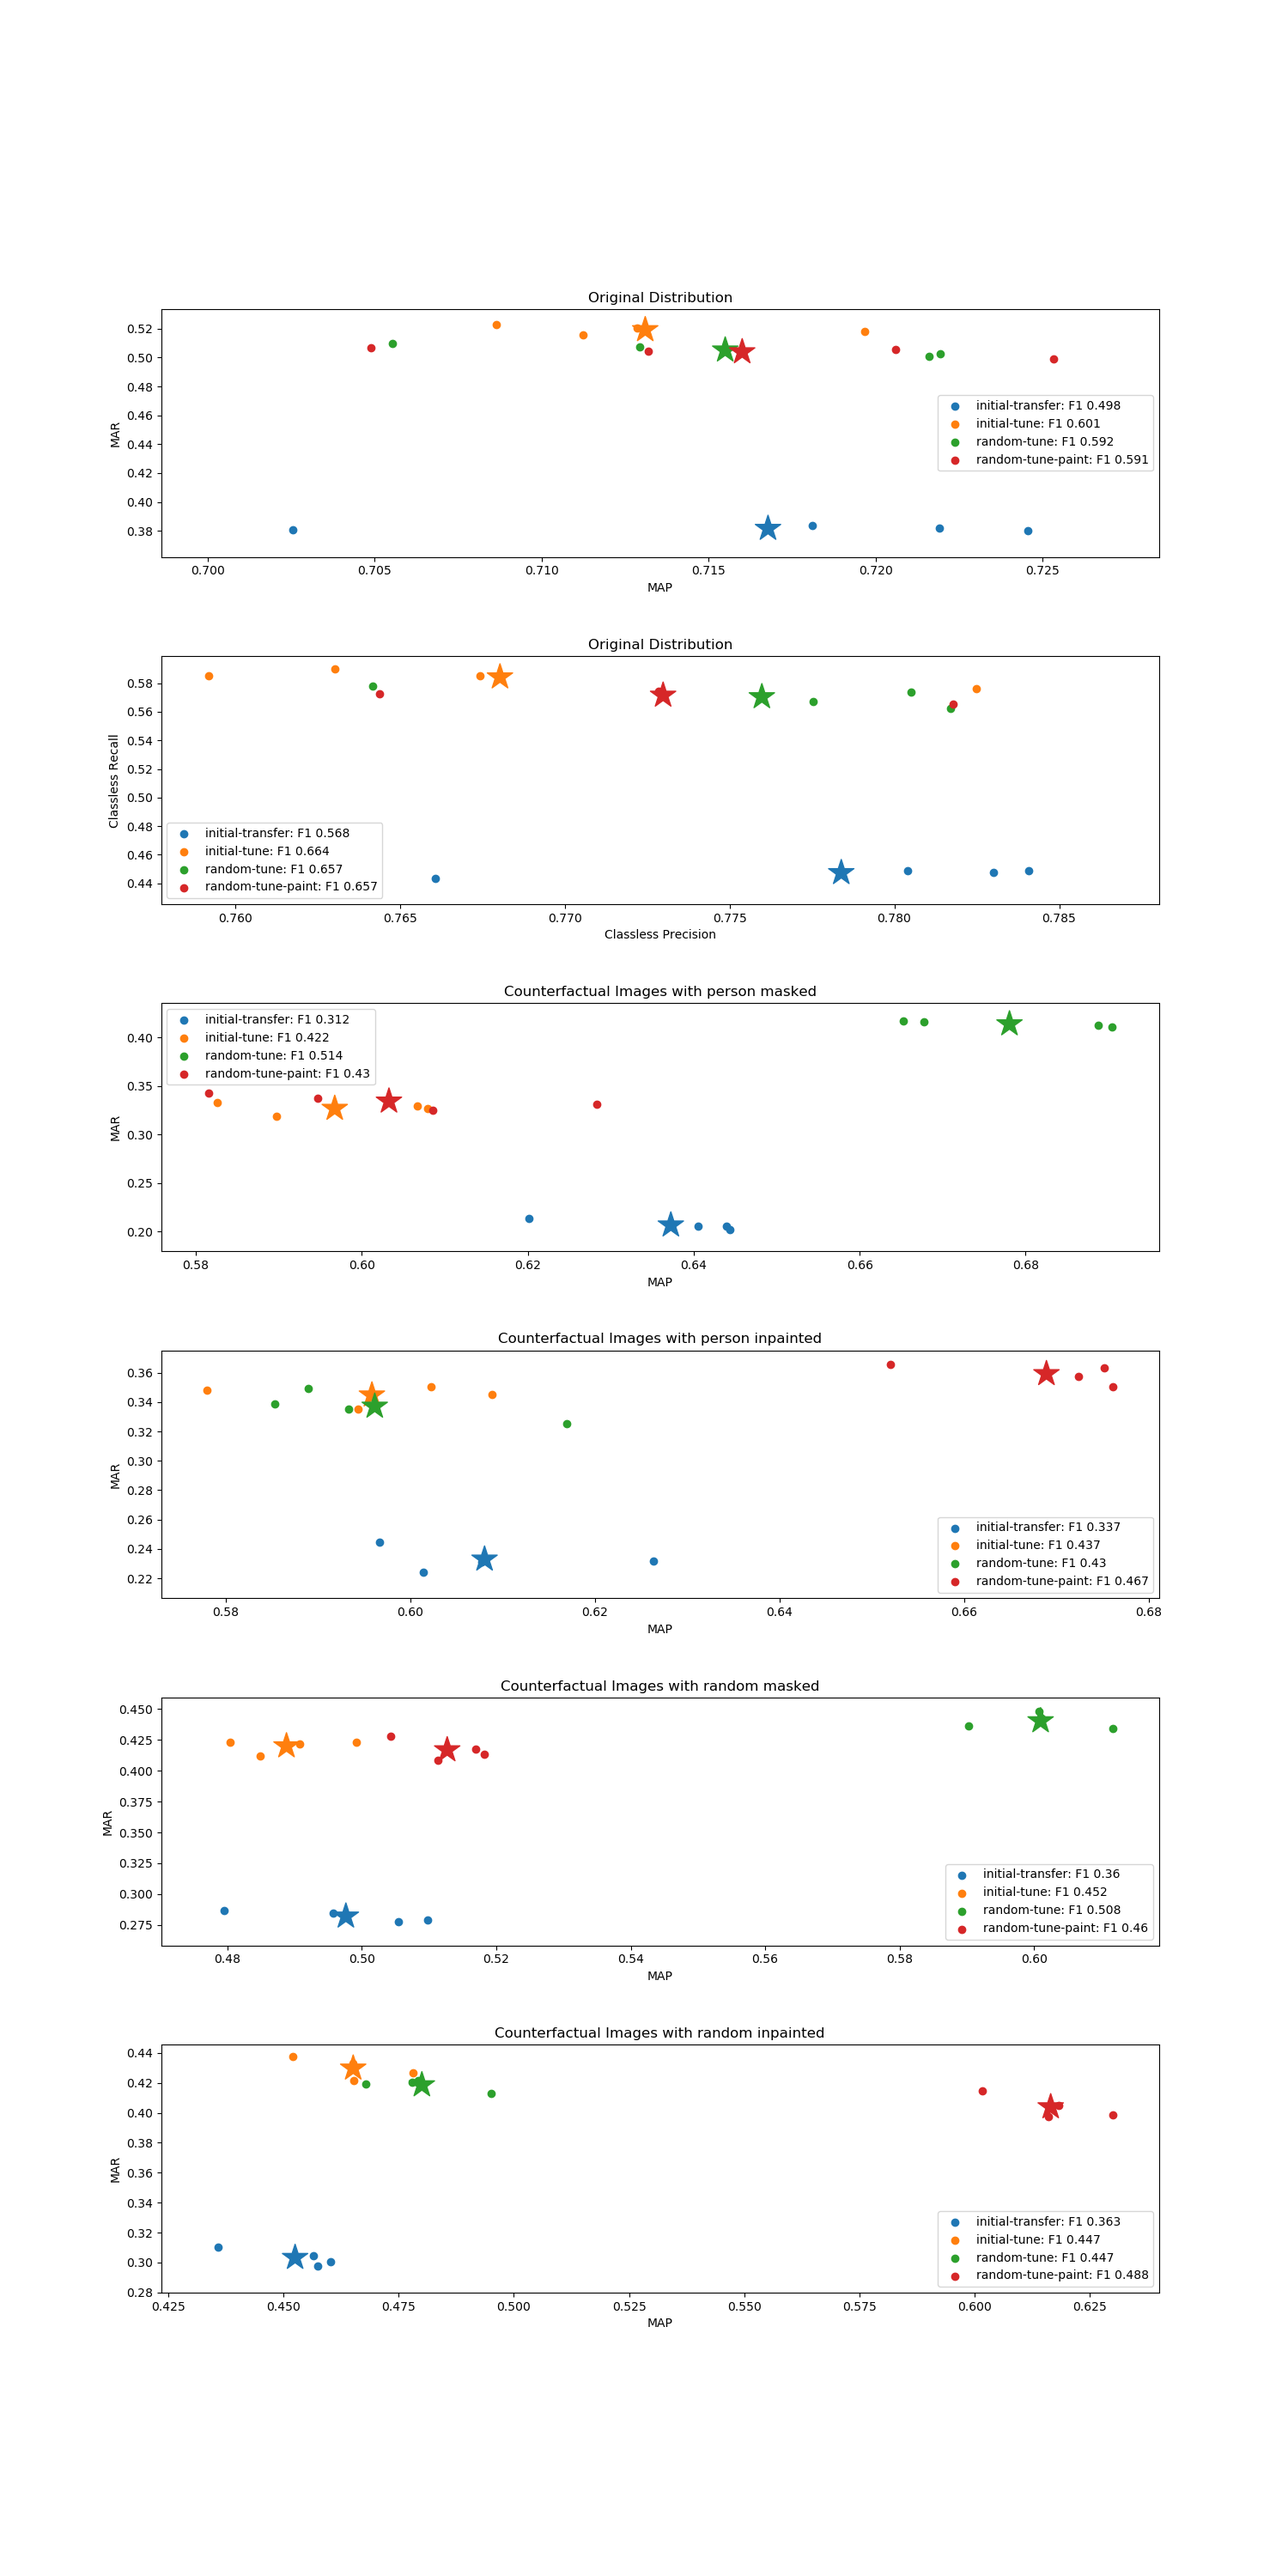
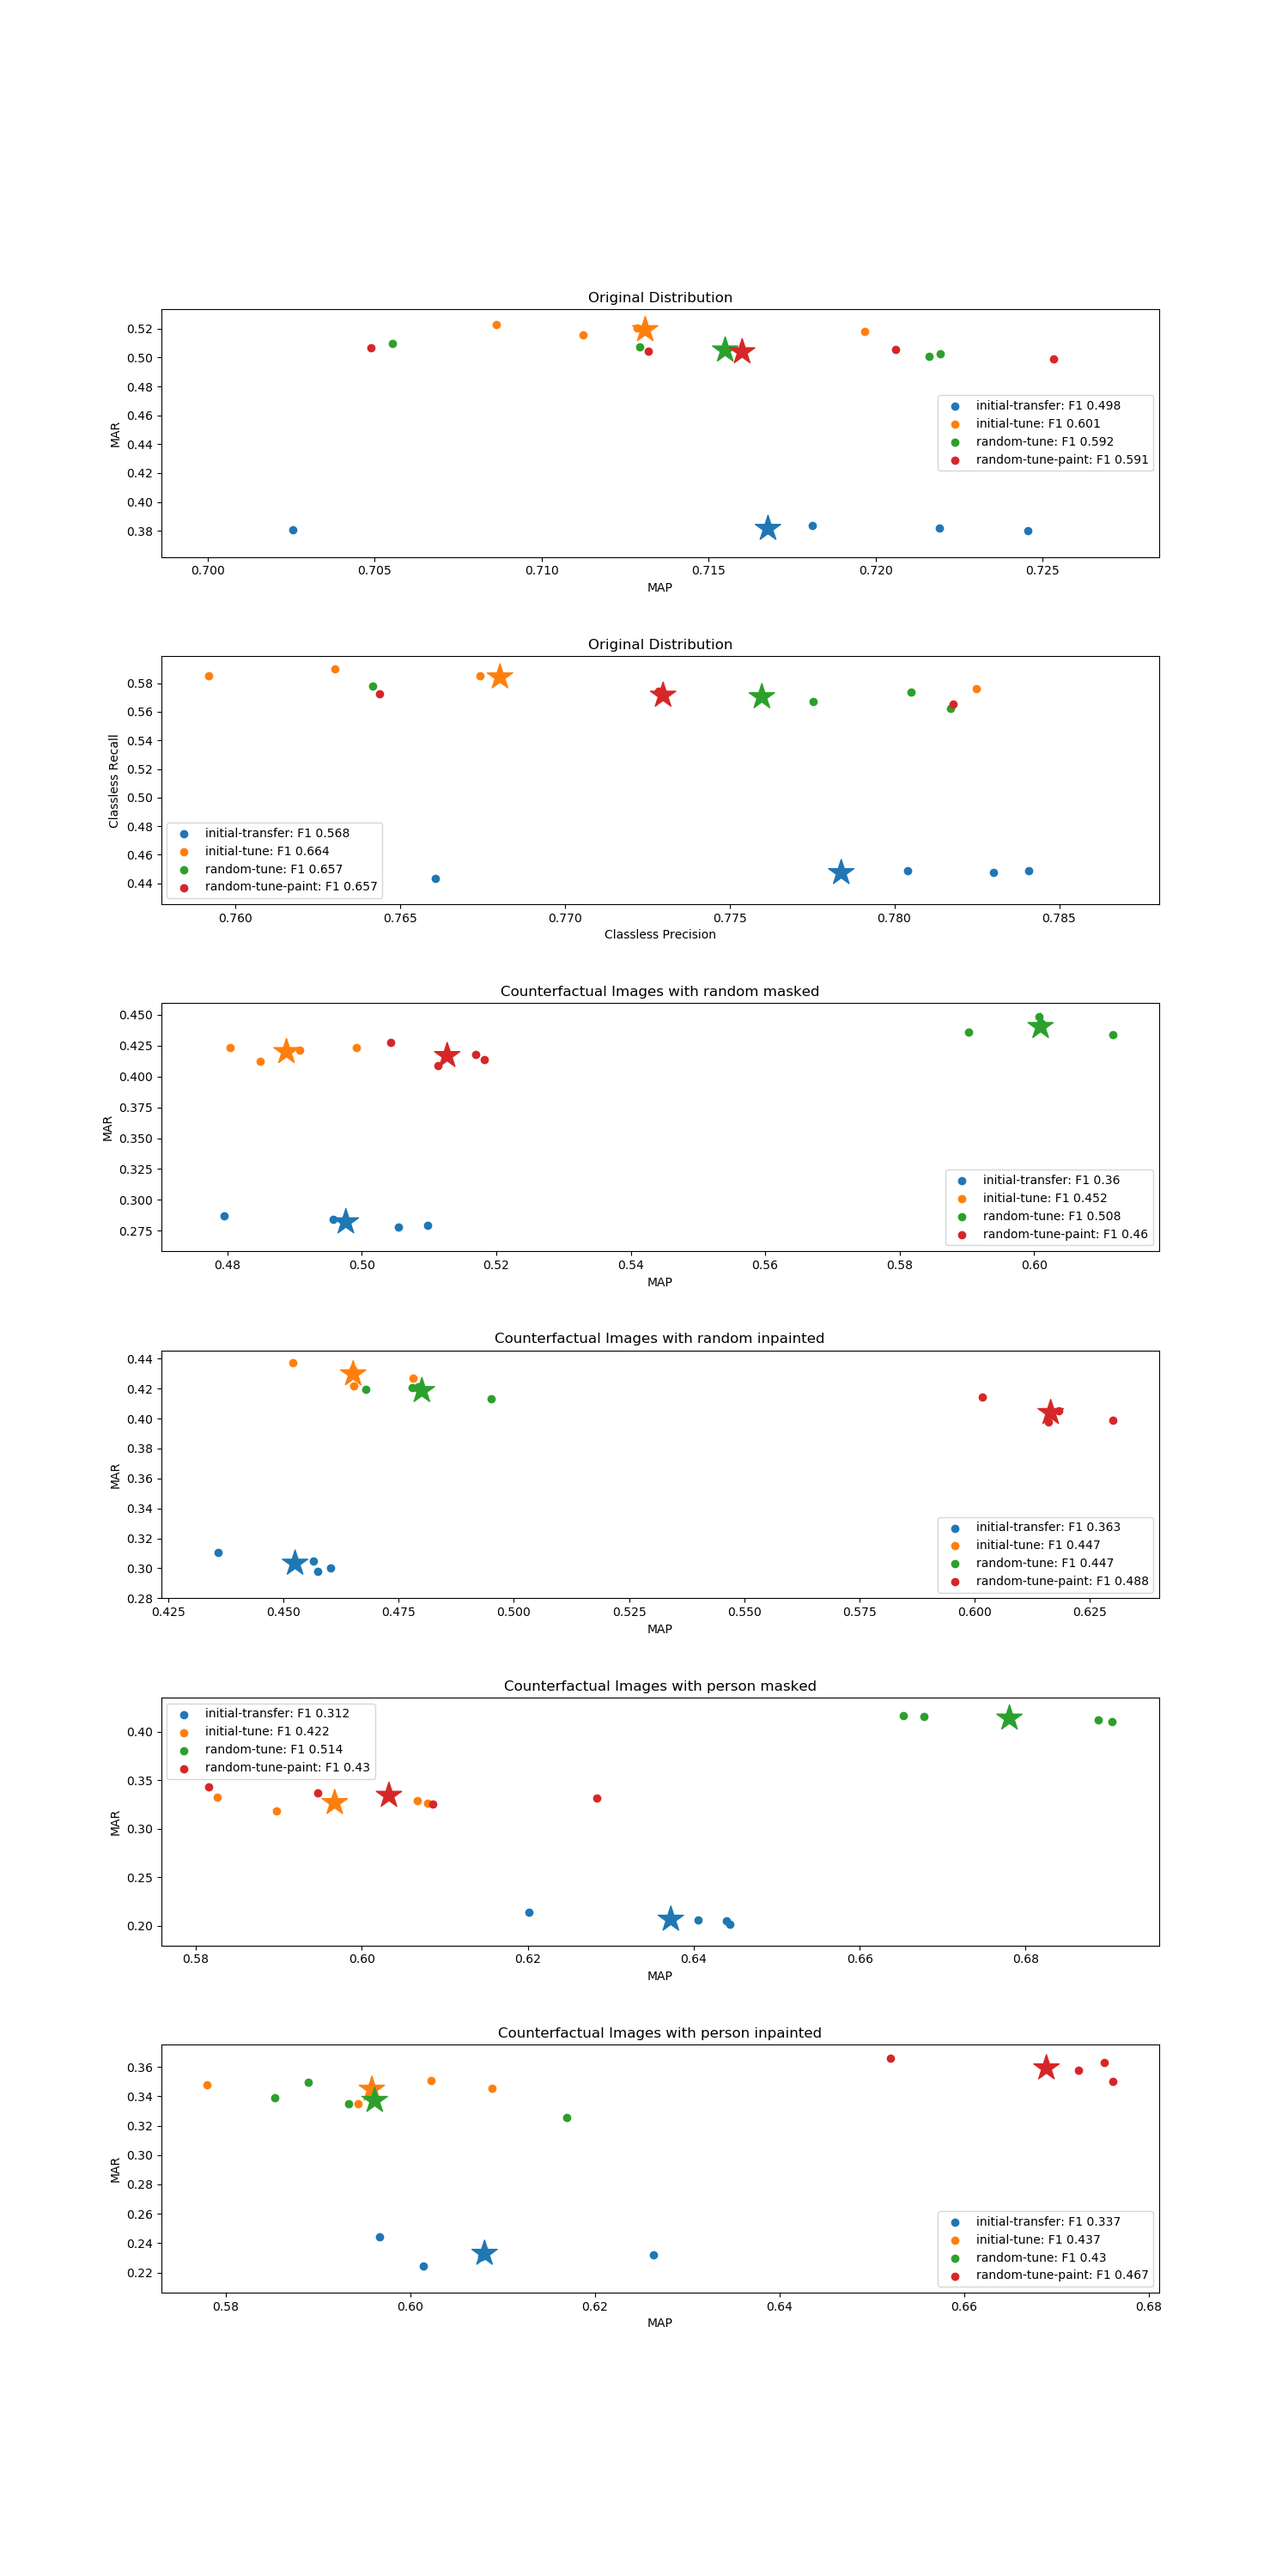
Switched the evaluation code to save activations rather than labels

diff --git a/COCO/Plot.py b/COCO/Plot.py
@@ -38,7 +38,7 @@ if __name__ == '__main__':
             for task in tasks:
                 p = []
                 r = []
-                for file in glob.glob('./Models/{}/*.p'.format(task)):
+                for file in glob.glob('./Models/{}/model_?.p'.format(task)):
                     with open(file, 'rb') as f:
                         data = pickle.load(f)
                         
@@ -82,12 +82,12 @@ if __name__ == '__main__':
         for task in tasks:
             p = []
             r = []
-            for file in glob.glob('./Models/{}/*.p'.format(task)):
+            for file in glob.glob('./Models/{}/model_?.p'.format(task)):
                 with open(file, 'rb') as f:
                     data = pickle.load(f)
                     
                 data = data['{}/val{}-info.p'.format(root, year)]
-                o1, o2 = coco.get_metrics_classless(data[2], data[3])
+                o1, o2 = coco.get_metrics_classless(1.0 * (data[2] > 0.5), data[3])
                 p.append(o1)
                 r.append(o2)
                 
@@ -99,21 +99,6 @@ if __name__ == '__main__':
 #        plt.ylim(0,1)
         plt.legend()
         plt.scatter(p_mean, r_mean, marker = '*', s = 500, c = plt.rcParams['axes.prop_cycle'].by_key()['color'][:len(p_mean)])
-        
-        # Accuracy plots for spurious removed
-        plt.subplot(num_plots, 1, count_plots)
-        count_plots += 1
-        plt.title('Counterfactual Images with {} masked'.format(spurious_class))
-        plt.xlabel('MAP')
-        plt.ylabel('MAR')
-        partial_plot('{}/val{}-{}-info.p'.format(root, year, spurious_class))
-                
-        plt.subplot(num_plots, 1, count_plots)
-        count_plots += 1
-        plt.title('Counterfactual Images with {} inpainted'.format(spurious_class))
-        plt.xlabel('MAP')
-        plt.ylabel('MAR')
-        partial_plot('{}/val{}-{}-paint-info.p'.format(root, year, spurious_class))
                 
         # Accuracy plots for random removed
         plt.subplot(num_plots, 1, count_plots)
@@ -130,6 +115,20 @@ if __name__ == '__main__':
         plt.ylabel('MAR')
         partial_plot('{}/val{}-random-paint-info.p'.format(root, year, spurious_class))
     
+         # Accuracy plots for spurious removed
+        plt.subplot(num_plots, 1, count_plots)
+        count_plots += 1
+        plt.title('Counterfactual Images with {} masked'.format(spurious_class))
+        plt.xlabel('MAP')
+        plt.ylabel('MAR')
+        partial_plot('{}/val{}-{}-info.p'.format(root, year, spurious_class))
+                
+        plt.subplot(num_plots, 1, count_plots)
+        count_plots += 1
+        plt.title('Counterfactual Images with {} inpainted'.format(spurious_class))
+        plt.xlabel('MAP')
+        plt.ylabel('MAR')
+        partial_plot('{}/val{}-{}-paint-info.p'.format(root, year, spurious_class))
         
         plt.savefig('Plot/main.png')
 
@@ -143,7 +142,7 @@ if __name__ == '__main__':
             for task in tasks:
                 p = []
                 r = []
-                for file in glob.glob('./Models/{}/*.p'.format(task)):
+                for file in glob.glob('./Models/{}/model_?.p'.format(task)):
                     with open(file, 'rb') as f:
                         data = pickle.load(f)
                     
@@ -175,21 +174,6 @@ if __name__ == '__main__':
         plt.xlabel('precision')
         plt.ylabel('recall')
         partial_plot('{}/val{}-info.p'.format(root, year))
-  
-        # Class specific accuracy plots for spurious removed
-        plt.subplot(num_plots, 1, count_plots)
-        count_plots += 1
-        plt.title('Counterfactual Images with {} masked'.format(spurious_class))
-        plt.xlabel('precision')
-        plt.ylabel('recall')
-        partial_plot('{}/val{}-{}-info.p'.format(root, year, spurious_class))
-                
-        plt.subplot(num_plots, 1, count_plots)
-        count_plots += 1
-        plt.title('Counterfactual Images with {} inpainted'.format(spurious_class))
-        plt.xlabel('precision')
-        plt.ylabel('recall')
-        partial_plot('{}/val{}-{}-paint-info.p'.format(root, year, spurious_class))
                 
         # Class specific accuracy plots for random removed
         plt.subplot(num_plots, 1, count_plots)
@@ -205,5 +189,20 @@ if __name__ == '__main__':
         plt.xlabel('precision')
         plt.ylabel('recall')
         partial_plot('{}/val{}-random-paint-info.p'.format(root, year, spurious_class))
+
+        # Class specific accuracy plots for spurious removed
+        plt.subplot(num_plots, 1, count_plots)
+        count_plots += 1
+        plt.title('Counterfactual Images with {} masked'.format(spurious_class))
+        plt.xlabel('precision')
+        plt.ylabel('recall')
+        partial_plot('{}/val{}-{}-info.p'.format(root, year, spurious_class))
                 
+        plt.subplot(num_plots, 1, count_plots)
+        count_plots += 1
+        plt.title('Counterfactual Images with {} inpainted'.format(spurious_class))
+        plt.xlabel('precision')
+        plt.ylabel('recall')
+        partial_plot('{}/val{}-{}-paint-info.p'.format(root, year, spurious_class))
+        
         plt.savefig('Plot/{}-{}.png'.format(main_class, spurious_class))

diff --git a/COCO/ModelWrapper.py b/COCO/ModelWrapper.py
@@ -30,7 +30,7 @@ class ModelWrapper():
             if get_names:
                 for name in data[2]:
                     names.append(name)
-            y_hat.append(1.0 * (self.predict(inputs) > 0.5))
+            y_hat.append(self.predict(inputs))
             y_true.append(labels.numpy())
         
         y_hat = np.concatenate(np.array(y_hat), axis = 0)
@@ -41,9 +41,11 @@ class ModelWrapper():
         else:
             return y_hat, y_true
         
-    def metrics(self, y_hat, y_true):
+    def metrics(self, y_hat, y_true, threshold = 0.5):
     
         dim = y_hat.shape[1]
+        
+        y_hat = 1.0 * (y_hat > threshold)
 
         precision = np.zeros((dim))
         for i in range(dim):
